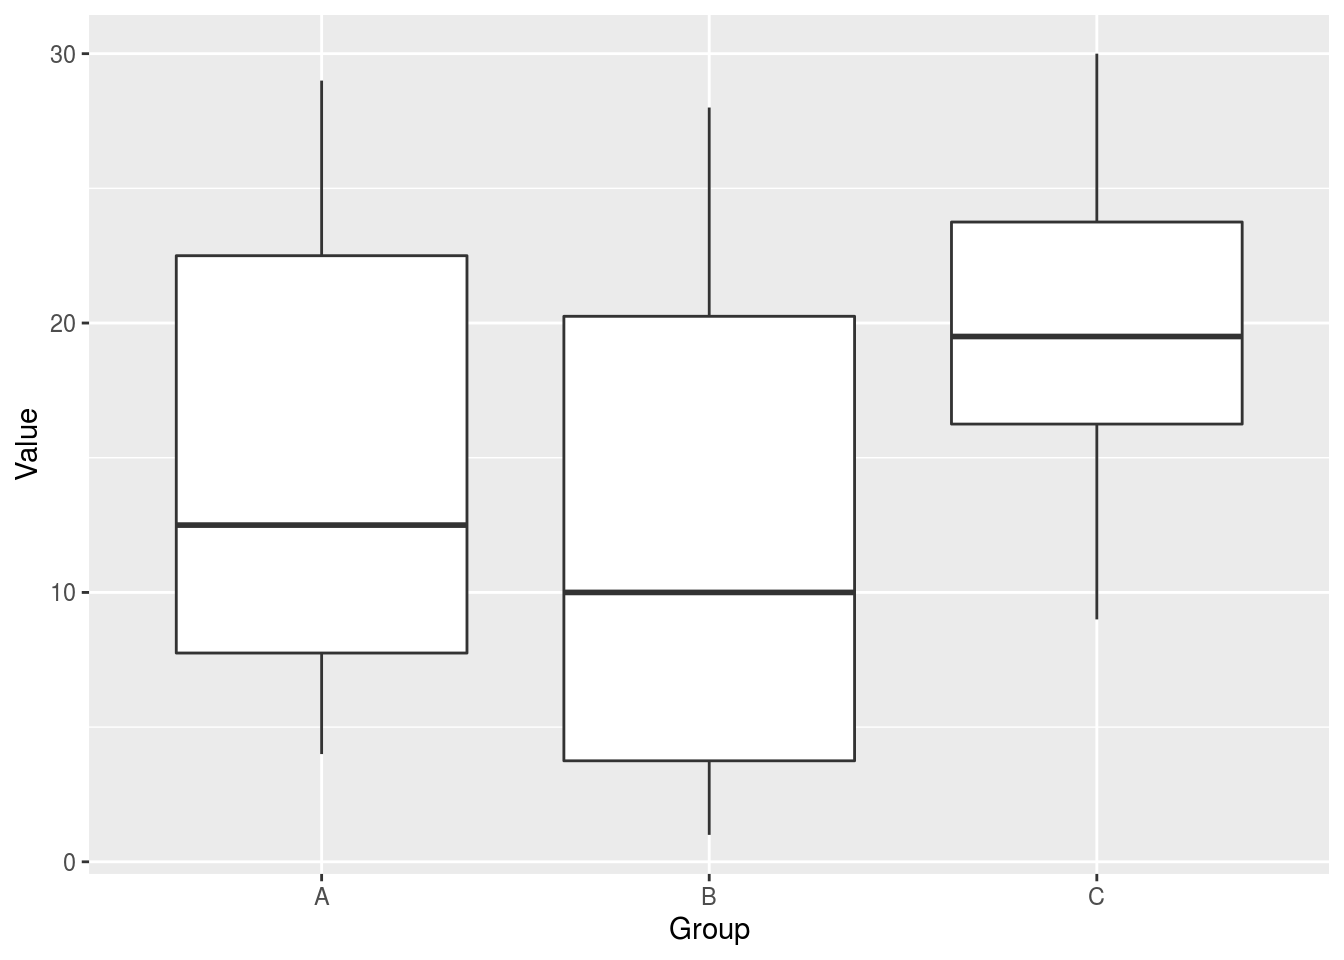
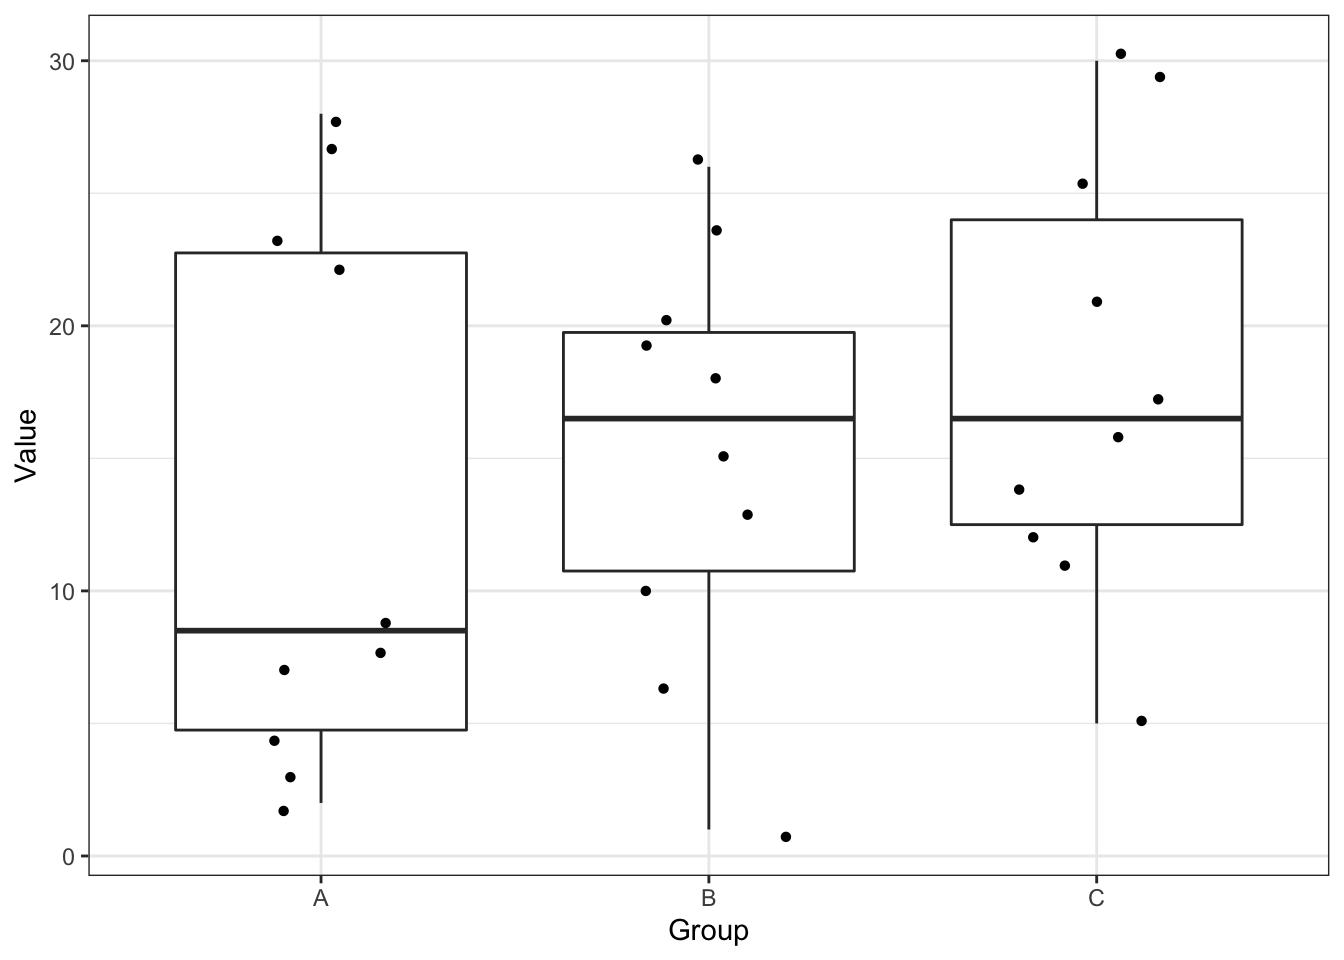
worked on ANOVA in lm

diff --git a/docs/lm.html b/docs/lm.html
@@ -371,13 +371,14 @@ summary(lm1)</code></pre>
 ## Residual standard error: 1.008 on 18 degrees of freedom
 ## Multiple R-squared:  0.901,  Adjusted R-squared:  0.8955 
 ## F-statistic: 163.8 on 1 and 18 DF,  p-value: 1.779e-10</code></pre>
-<p>We see that the intercept is <code>1.8454587</code>, which should be close to two, and the slope is <code>0.5000256</code>, which should be close to 0.5.</p>
+<p>In order to perform the linear regression we’ve used the function <code>lm()</code> and saved it’s results in the object <code>lm1</code>. We summarized the object we created with the generic function <code>summary()</code>. We see that the intercept is <code>1.8454587</code>, which should be close to two, and the slope is <code>0.5000256</code>, which should be close to 0.5.</p>
 </div>
 </div>
 <div id="analysis-of-variance" class="section level2">
 <h2>Analysis of variance</h2>
-<p>In the analysis of soilborne pathogens we are typically looking for differences among groups. In linear regression we were looking for relationships among a (putatively) dependent variable and independent variables. When we investigate soilborne pathogens we’re typically looking for differences among groups of plots. Fr example, we may be looking for differences among plots that were fumigated, or fertilized, or ammended in some other manner. These are frequently analysis of variance (ANOVA) type questions. ANOVA can be seen as a form of the lineaar model wherre instead of trying to infer a slope and intercept we’re trying to infer the elevation, or y-intercept, for two or more groups.</p>
-<pre class="r"><code>my_data &lt;- cbind( rep(c(&#39;A&#39;, &#39;B&#39;, &#39;C&#39;), each = 10), rnorm(n = 30, mean = 10, sd = 2) )
+<p>In the analysis of soilborne pathogens we are typically looking for differences among groups. In linear regression we were looking for relationships among a (putatively) dependent variable and independent variables. When we investigate soilborne pathogens we’re typically looking for differences among groups of plots. For example, we may be looking for differences among plots that were fumigated, or fertilized, or ammended in some other manner. These are frequently analysis of variance (ANOVA) type questions. ANOVA can be seen as a form of the lineaar model where instead of trying to infer a slope and intercept we’re trying to infer the elevation, or y-intercept, for two or more groups.</p>
+<pre class="r"><code>set.seed(99)
+my_data &lt;- cbind( rep(c(&#39;A&#39;, &#39;B&#39;, &#39;C&#39;), each = 10), rnorm(n = 30, mean = 10, sd = 2) )
 my_data &lt;- as.data.frame(my_data)
 colnames(my_data) &lt;- c(&quot;Group&quot;, &quot;Value&quot;)
 my_data$Group &lt;- as.factor(my_data$Group)
@@ -385,6 +386,8 @@ my_data$Value &lt;- as.numeric(my_data$Value)</code></pre>
 <pre class="r"><code>library(ggplot2)
 p &lt;- ggplot(data = my_data, mapping = aes(x = Group, y = Value))
 p &lt;- p + geom_boxplot()
+p &lt;- p + geom_jitter(shape=16, position=position_jitter(0.2))
+p &lt;- p + theme_bw()
 p</code></pre>
 <div class="figure" style="text-align: center">
 <img src="lm_files/figure-html/unnamed-chunk-5-1.png" alt="Figure 3. Box and whisker plot of simulated data with normal error." width="672" />
@@ -392,8 +395,70 @@ p</code></pre>
 Figure 3. Box and whisker plot of simulated data with normal error.
 </p>
 </div>
+<p>Here we’ve simulated three groups of data. We’ve visualized this data using box and whisker plots. I like to add the dots as long as there aren’t too many. And I prefer <code>theme_bw()</code> over the default theme. You may want to omit these steps if you like.</p>
+<p>Note that we’ve created a <strong>factor</strong> to indicate which group each sample belongs to. Note that a <strong>factor</strong> is different from a <strong>vector of characters</strong> because a factor includes information about the groups or levels and a vector of characters does not.</p>
+<pre class="r"><code>my_data$Group</code></pre>
+<pre><code>##  [1] A A A A A A A A A A B B B B B B B B B B C C C C C C C C C C
+## Levels: A B C</code></pre>
+<pre class="r"><code>as.character(my_data$Group)</code></pre>
+<pre><code>##  [1] &quot;A&quot; &quot;A&quot; &quot;A&quot; &quot;A&quot; &quot;A&quot; &quot;A&quot; &quot;A&quot; &quot;A&quot; &quot;A&quot; &quot;A&quot; &quot;B&quot; &quot;B&quot; &quot;B&quot; &quot;B&quot; &quot;B&quot; &quot;B&quot; &quot;B&quot; &quot;B&quot; &quot;B&quot;
+## [20] &quot;B&quot; &quot;C&quot; &quot;C&quot; &quot;C&quot; &quot;C&quot; &quot;C&quot; &quot;C&quot; &quot;C&quot; &quot;C&quot; &quot;C&quot; &quot;C&quot;</code></pre>
+<p>We can now test for differences in group means.</p>
+<pre class="r"><code>options(contrasts = c(&quot;contr.helmert&quot;, &quot;contr.poly&quot;))
+lm2 &lt;- lm(Value ~ Group, data = my_data)
+summary(lm2)</code></pre>
+<pre><code>## 
+## Call:
+## lm(formula = Value ~ Group, data = my_data)
+## 
+## Residuals:
+##     Min      1Q  Median      3Q     Max 
+## -14.200  -6.225  -1.500   8.275  14.700 
+## 
+## Coefficients:
+##             Estimate Std. Error t value Pr(&gt;|t|)    
+## (Intercept)   15.500      1.624   9.546 3.81e-10 ***
+## Group1         0.950      1.989   0.478    0.637    
+## Group2         1.250      1.148   1.089    0.286    
+## ---
+## Signif. codes:  0 &#39;***&#39; 0.001 &#39;**&#39; 0.01 &#39;*&#39; 0.05 &#39;.&#39; 0.1 &#39; &#39; 1
+## 
+## Residual standard error: 8.894 on 27 degrees of freedom
+## Multiple R-squared:  0.04974,    Adjusted R-squared:  -0.02065 
+## F-statistic: 0.7067 on 2 and 27 DF,  p-value: 0.5022</code></pre>
+<pre class="r"><code># http://www.sthda.com/english/wiki/one-way-anova-test-in-r
+library(dplyr)</code></pre>
+<pre><code>## 
+## Attaching package: &#39;dplyr&#39;</code></pre>
+<pre><code>## The following objects are masked from &#39;package:stats&#39;:
+## 
+##     filter, lag</code></pre>
+<pre><code>## The following objects are masked from &#39;package:base&#39;:
+## 
+##     intersect, setdiff, setequal, union</code></pre>
+<pre class="r"><code>group_by(my_data, Group) %&gt;%
+  summarise(
+    count = n(),
+    mean = mean(Value, na.rm = TRUE),
+    sd = sd(Value, na.rm = TRUE)
+  )</code></pre>
+<pre><code>## # A tibble: 3 x 4
+##   Group count  mean    sd
+##   &lt;fct&gt; &lt;int&gt; &lt;dbl&gt; &lt;dbl&gt;
+## 1 A        10  13.3 10.4 
+## 2 B        10  15.2  7.87
+## 3 C        10  18    8.15</code></pre>
+<pre class="r"><code>mean(my_data$Value)</code></pre>
+<pre><code>## [1] 15.5</code></pre>
+<p>Shapiro-Wilk test of normality</p>
+<p>Levene’s test for common variance</p>
 <div id="contrasts" class="section level3">
 <h3>Contrasts</h3>
+<pre class="r"><code>options(&quot;contrasts&quot;)</code></pre>
+<pre><code>## $contrasts
+## [1] &quot;contr.helmert&quot; &quot;contr.poly&quot;</code></pre>
+<pre class="r"><code>options(contrasts = c(&quot;contr.helmert&quot;, &quot;contr.poly&quot;))
+options(contrasts = c(&quot;contr.treatment&quot;, &quot;contr.poly&quot;))</code></pre>
 </div>
 </div>
 
